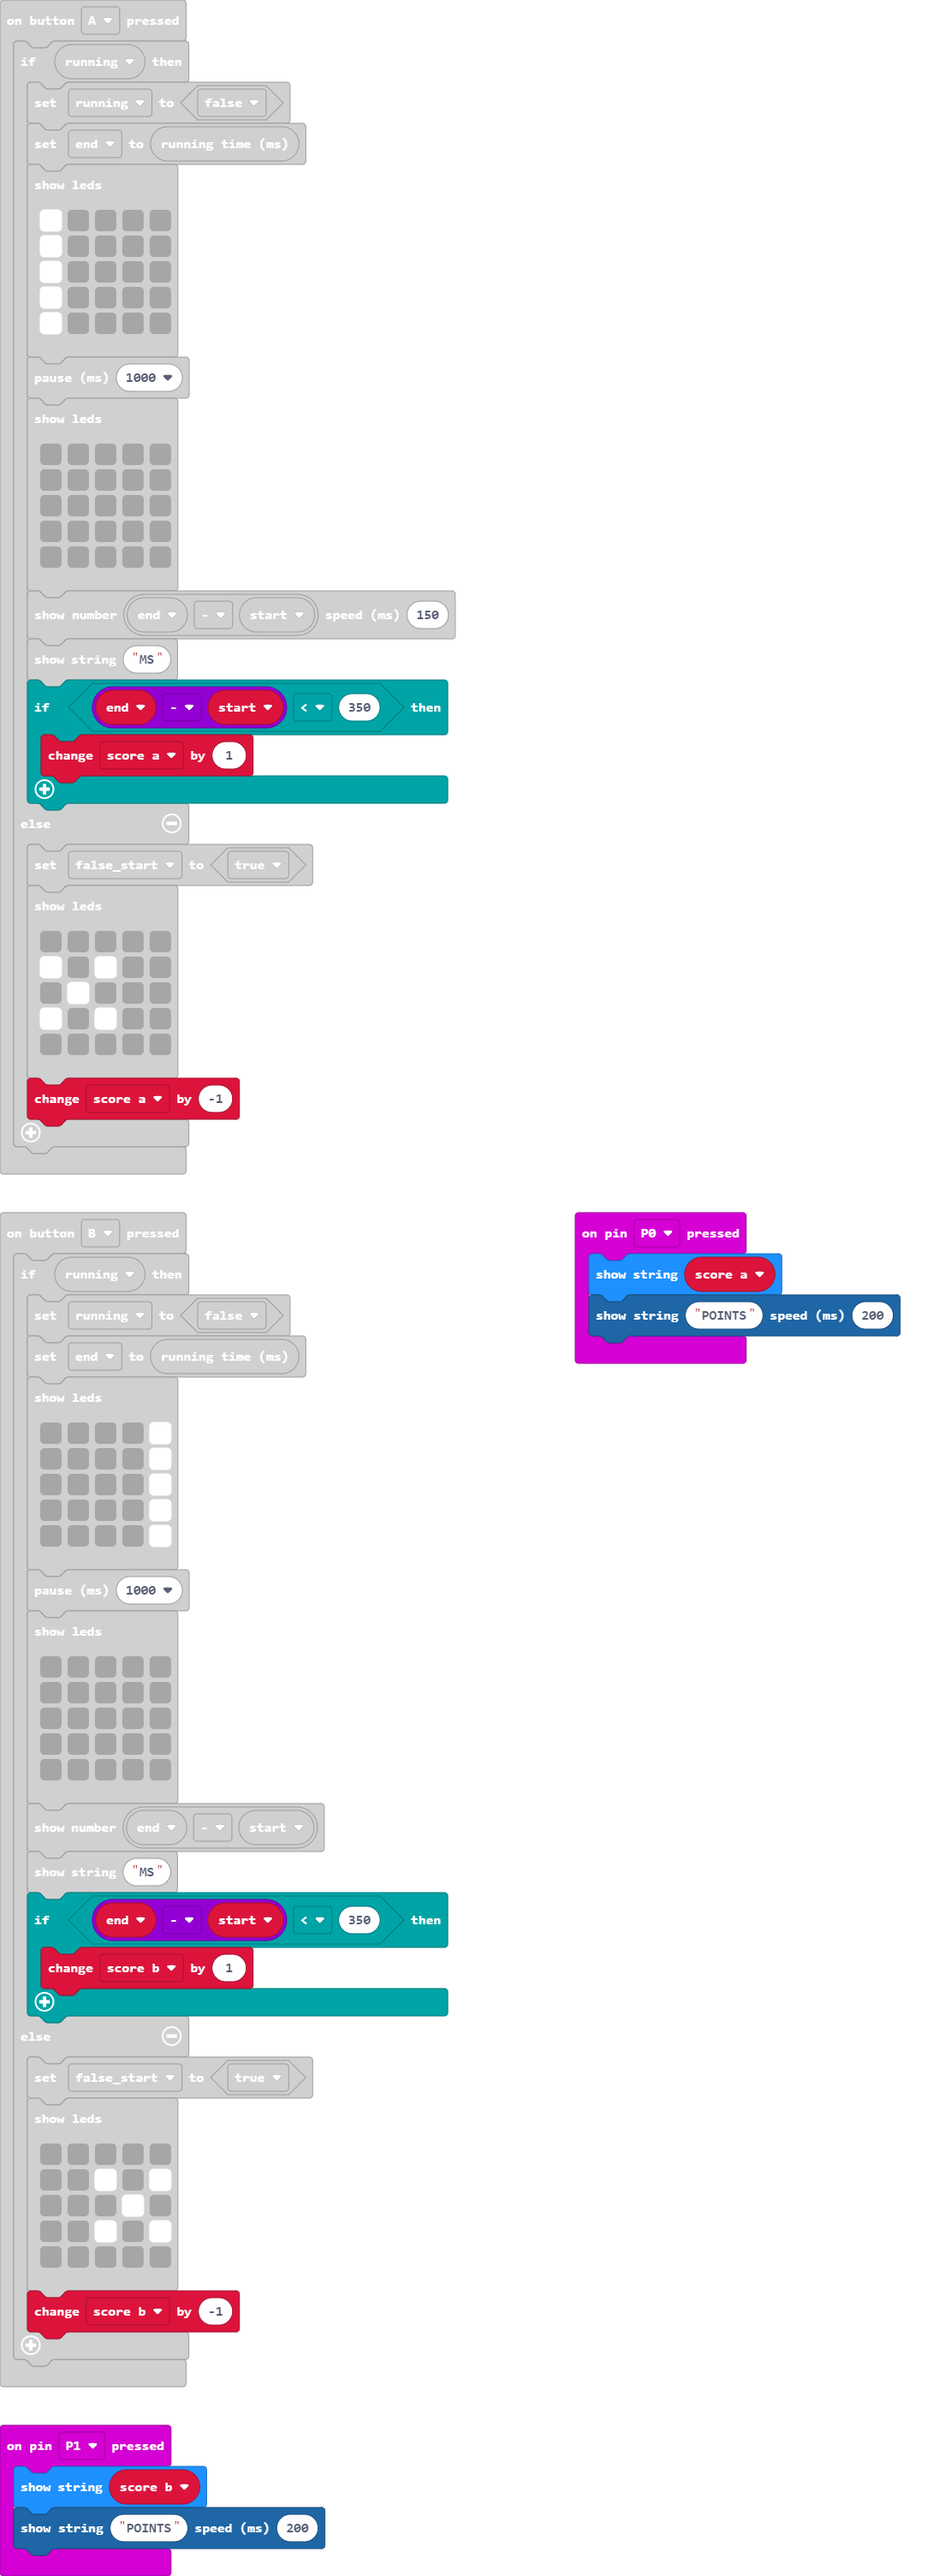
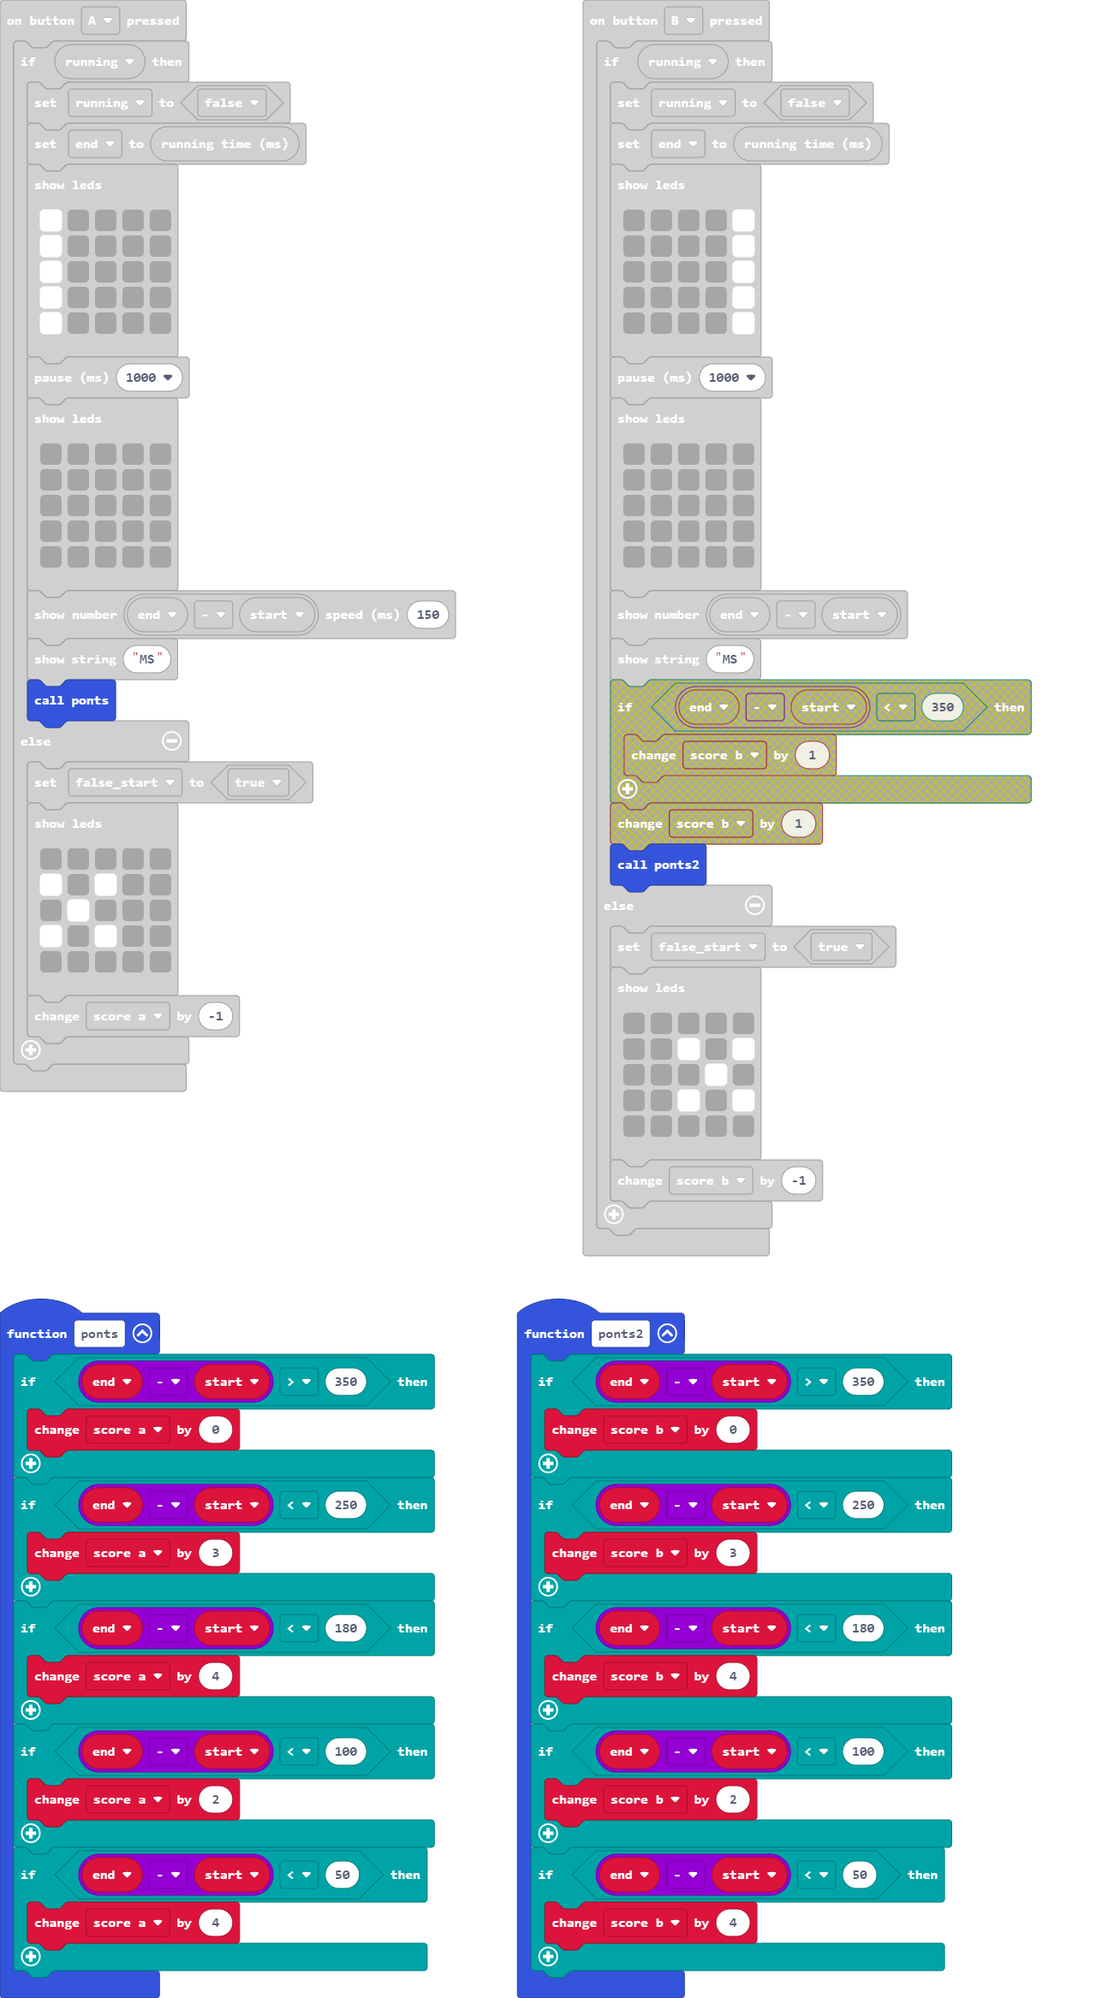
Update main.blocks, main.ts

diff --git a/main.ts b/main.ts
@@ -29,9 +29,7 @@ input.onButtonPressed(Button.A, function () {
             `)
         proportionalFont.showNumber(end - start, 150)
         basic.showString("MS")
-        if (end - start < 350) {
-            score_a += 1
-        }
+        ponts()
     } else {
         false_start = true
         basic.showLeds(`
@@ -44,6 +42,23 @@ input.onButtonPressed(Button.A, function () {
         score_a += -1
     }
 })
+function ponts () {
+    if (end - start > 350) {
+        score_a += 0
+    }
+    if (end - start < 250) {
+        score_a += 3
+    }
+    if (end - start < 180) {
+        score_a += 4
+    }
+    if (end - start < 100) {
+        score_a += 2
+    }
+    if (end - start < 50) {
+        score_a += 4
+    }
+}
 input.onButtonPressed(Button.AB, function () {
     basic.showNumber(3)
     basic.showNumber(2)
@@ -66,6 +81,23 @@ input.onButtonPressed(Button.AB, function () {
             `)
     }
 })
+function ponts2 () {
+    if (end - start > 350) {
+        score_b += 0
+    }
+    if (end - start < 250) {
+        score_b += 3
+    }
+    if (end - start < 180) {
+        score_b += 4
+    }
+    if (end - start < 100) {
+        score_b += 2
+    }
+    if (end - start < 50) {
+        score_b += 4
+    }
+}
 input.onButtonPressed(Button.B, function () {
     if (running) {
         running = false
@@ -87,9 +119,7 @@ input.onButtonPressed(Button.B, function () {
             `)
         basic.showNumber(end - start)
         basic.showString("MS")
-        if (end - start < 350) {
-            score_b += 1
-        }
+        ponts2()
     } else {
         false_start = true
         basic.showLeds(`
